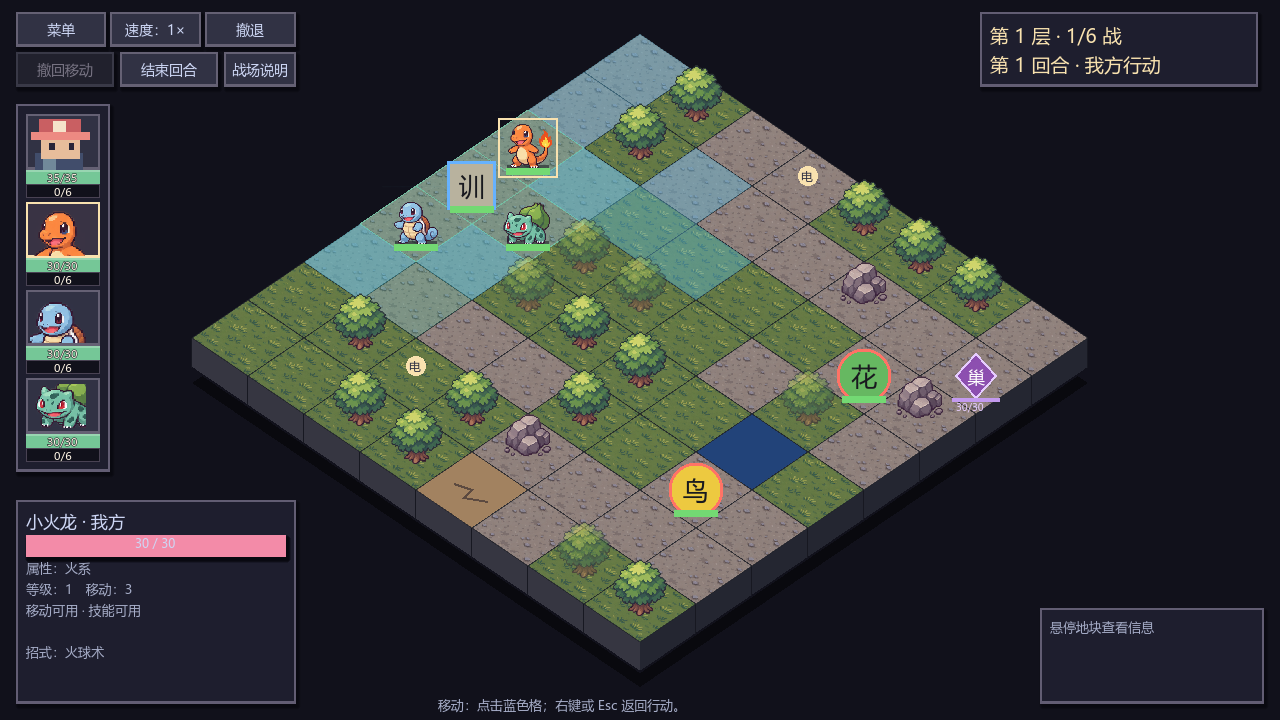
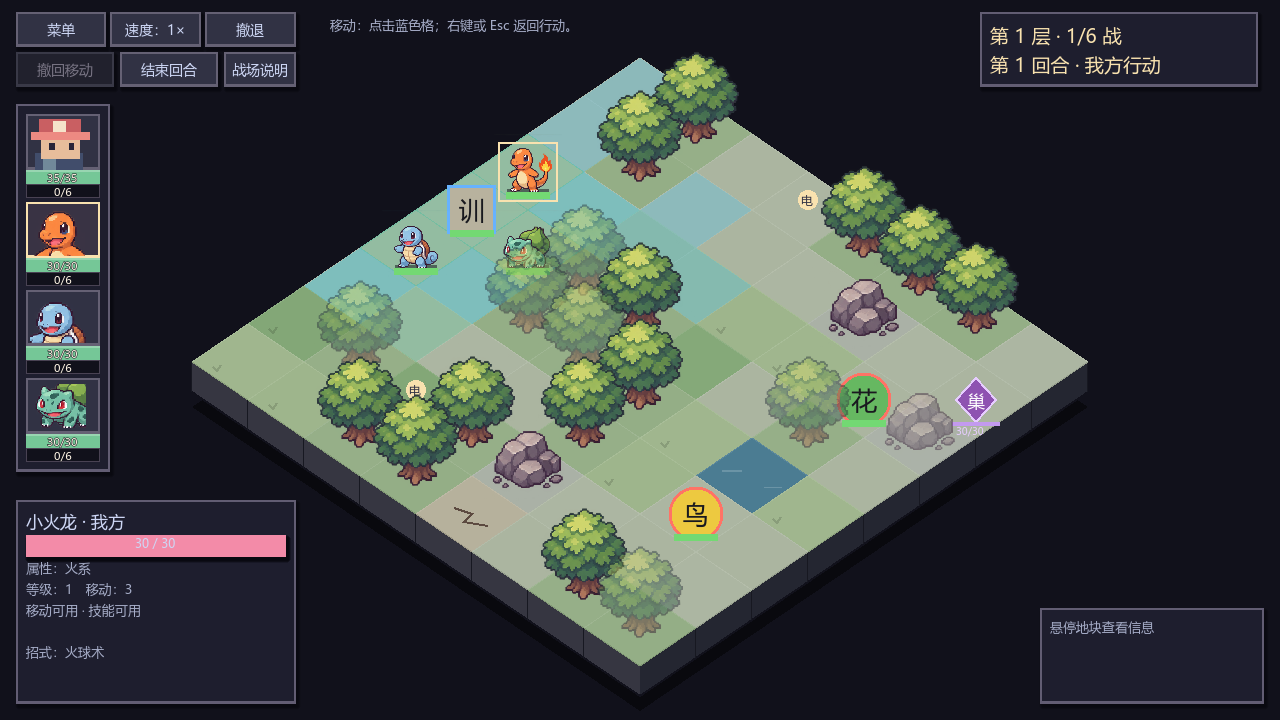
ui: simplify ground enlarge obstacles and restore unit-anchored action popup

diff --git a/sample/ISOMETRIC.md b/sample/ISOMETRIC.md
@@ -55,3 +55,12 @@
 - 直接返回区域与战斗撤退继续使用不同文案及原有条件。
 - 验证：专项381项、界面流程150项、撤退策略24项通过。全量回归101用例曾有一处直接返回文案断言失败，已修复并用撤退策略专项复测；未将该次全量记录宣称为全部通过。
 - 截图渲染无脚本错误；主工作区未修改。
+
+## 清爽地面与单位旁行动面板（2026-11-11）
+
+- 普通地面、草地、浅草、岩地等不再铺满图集中的碎石与噪点；改用低对比色面、安静接缝，草地仅在边缘留一簇草，水面保留少量短波纹。
+- 树木显示框由70×70放大至112×112，岩石由70×70放大至104×96；根据实际遮挡区域将前景障碍物半透明。
+- 棋盘下移24像素，为放大后的树冠保留顶部空间，平台与阴影仍在720高画面内。操作提示移到顶部中间空白区。
+- 行动面板恢复为单位旁浮窗，优先位于右侧，右边空间不足时翻至左侧，上下限制在视口内；移动和技能瞄准时沿用原有隐藏规则。
+- 截图battle-isometric.png展示点击单位后的主行动菜单；isometric-actions.png展示技能菜单。
+- 验证：真实1280×720视口下专项391检查点，含四角弹窗位置/翻转、选格、移动/撤销与技能发动；界面流程150检查点通过。
